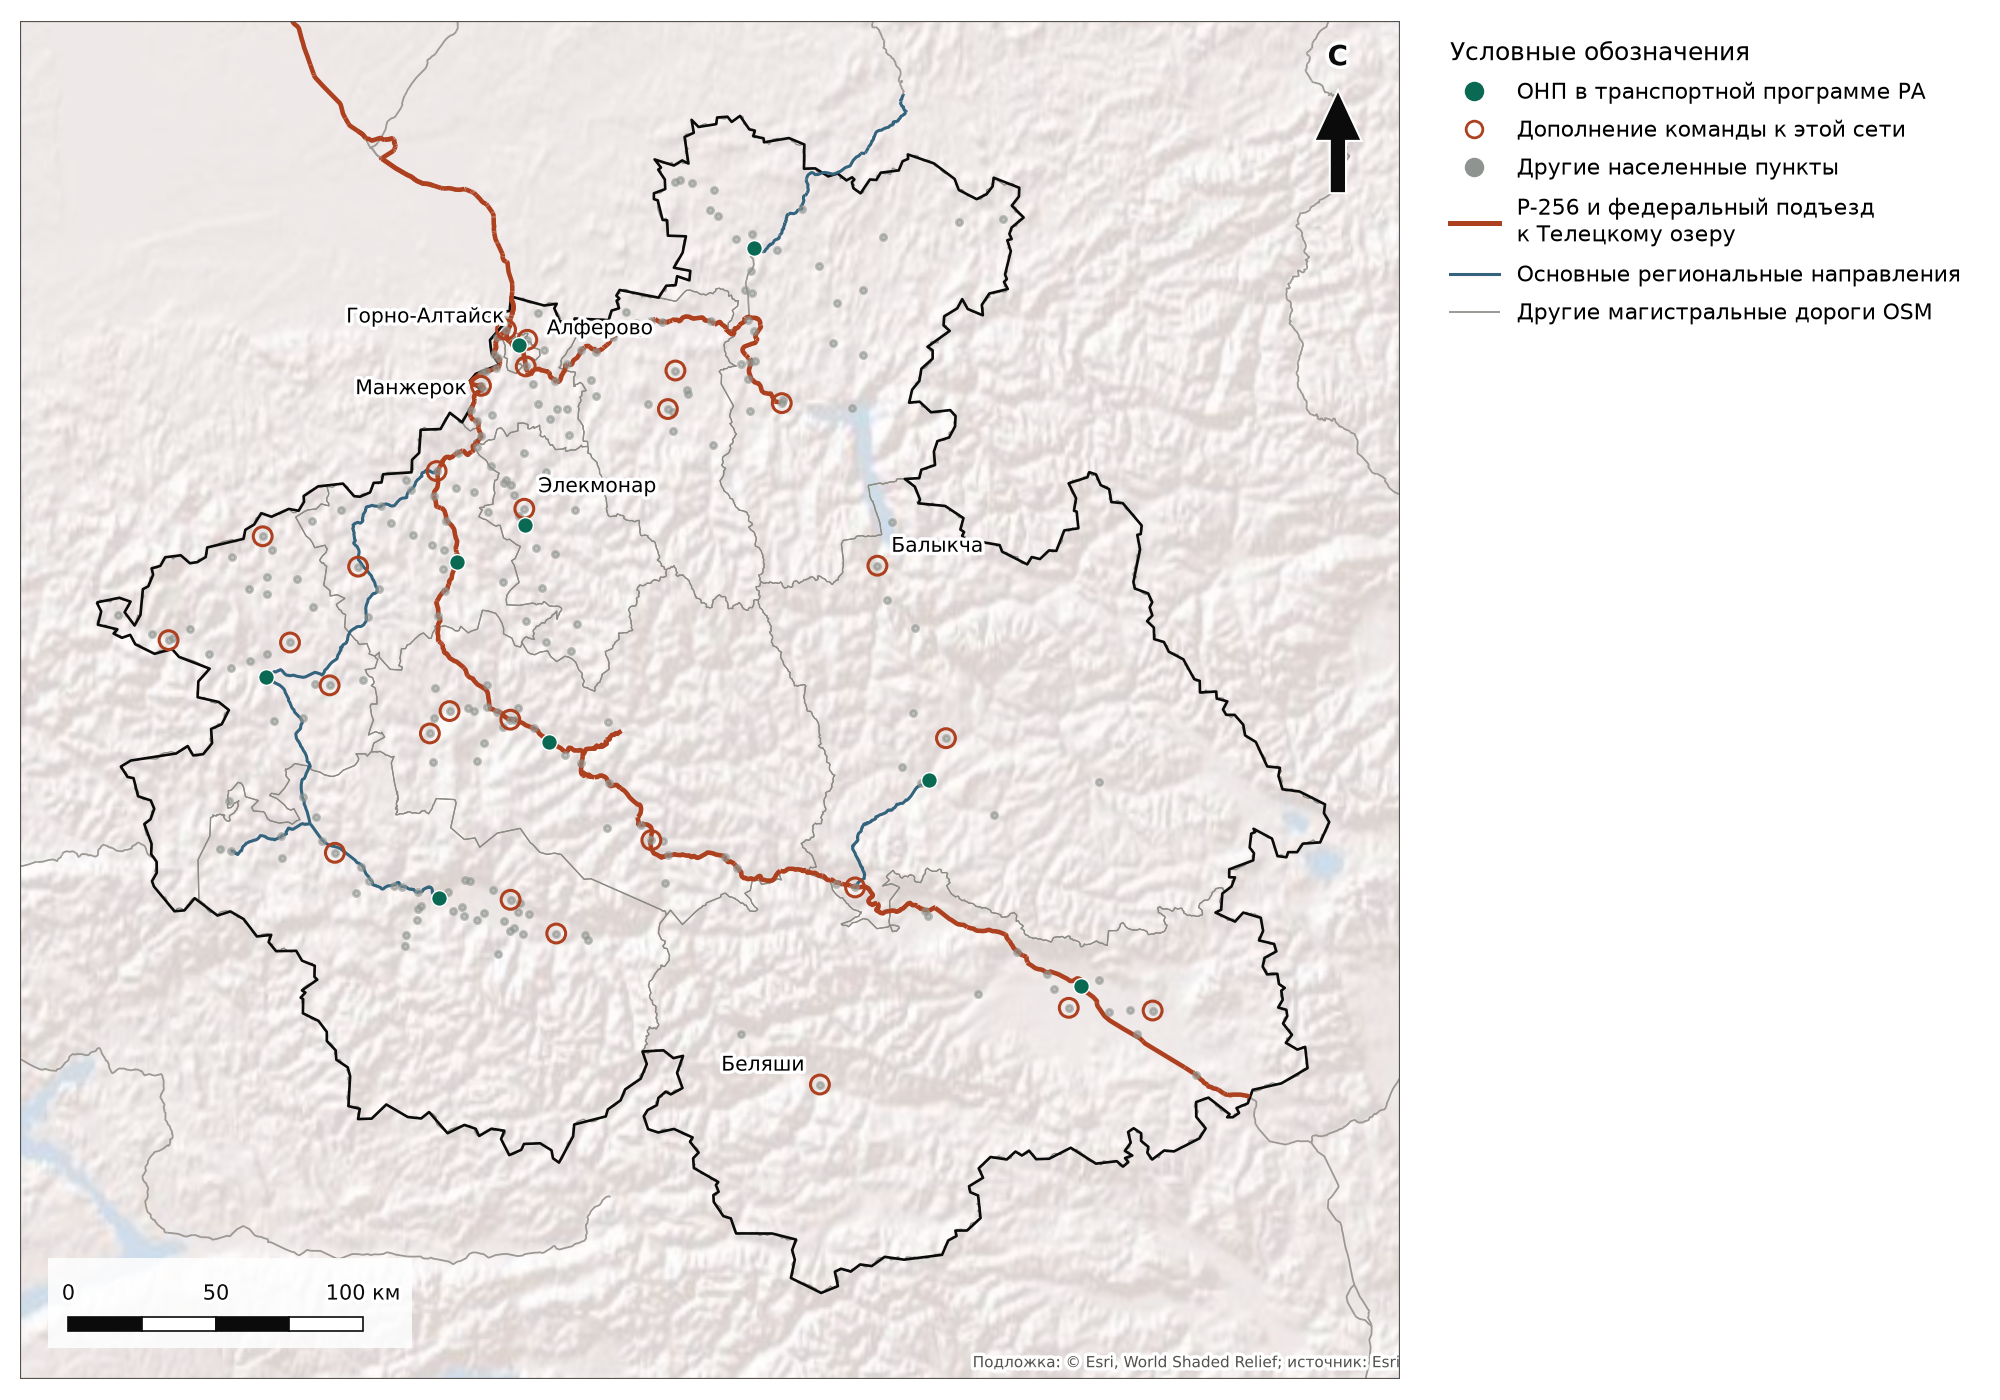
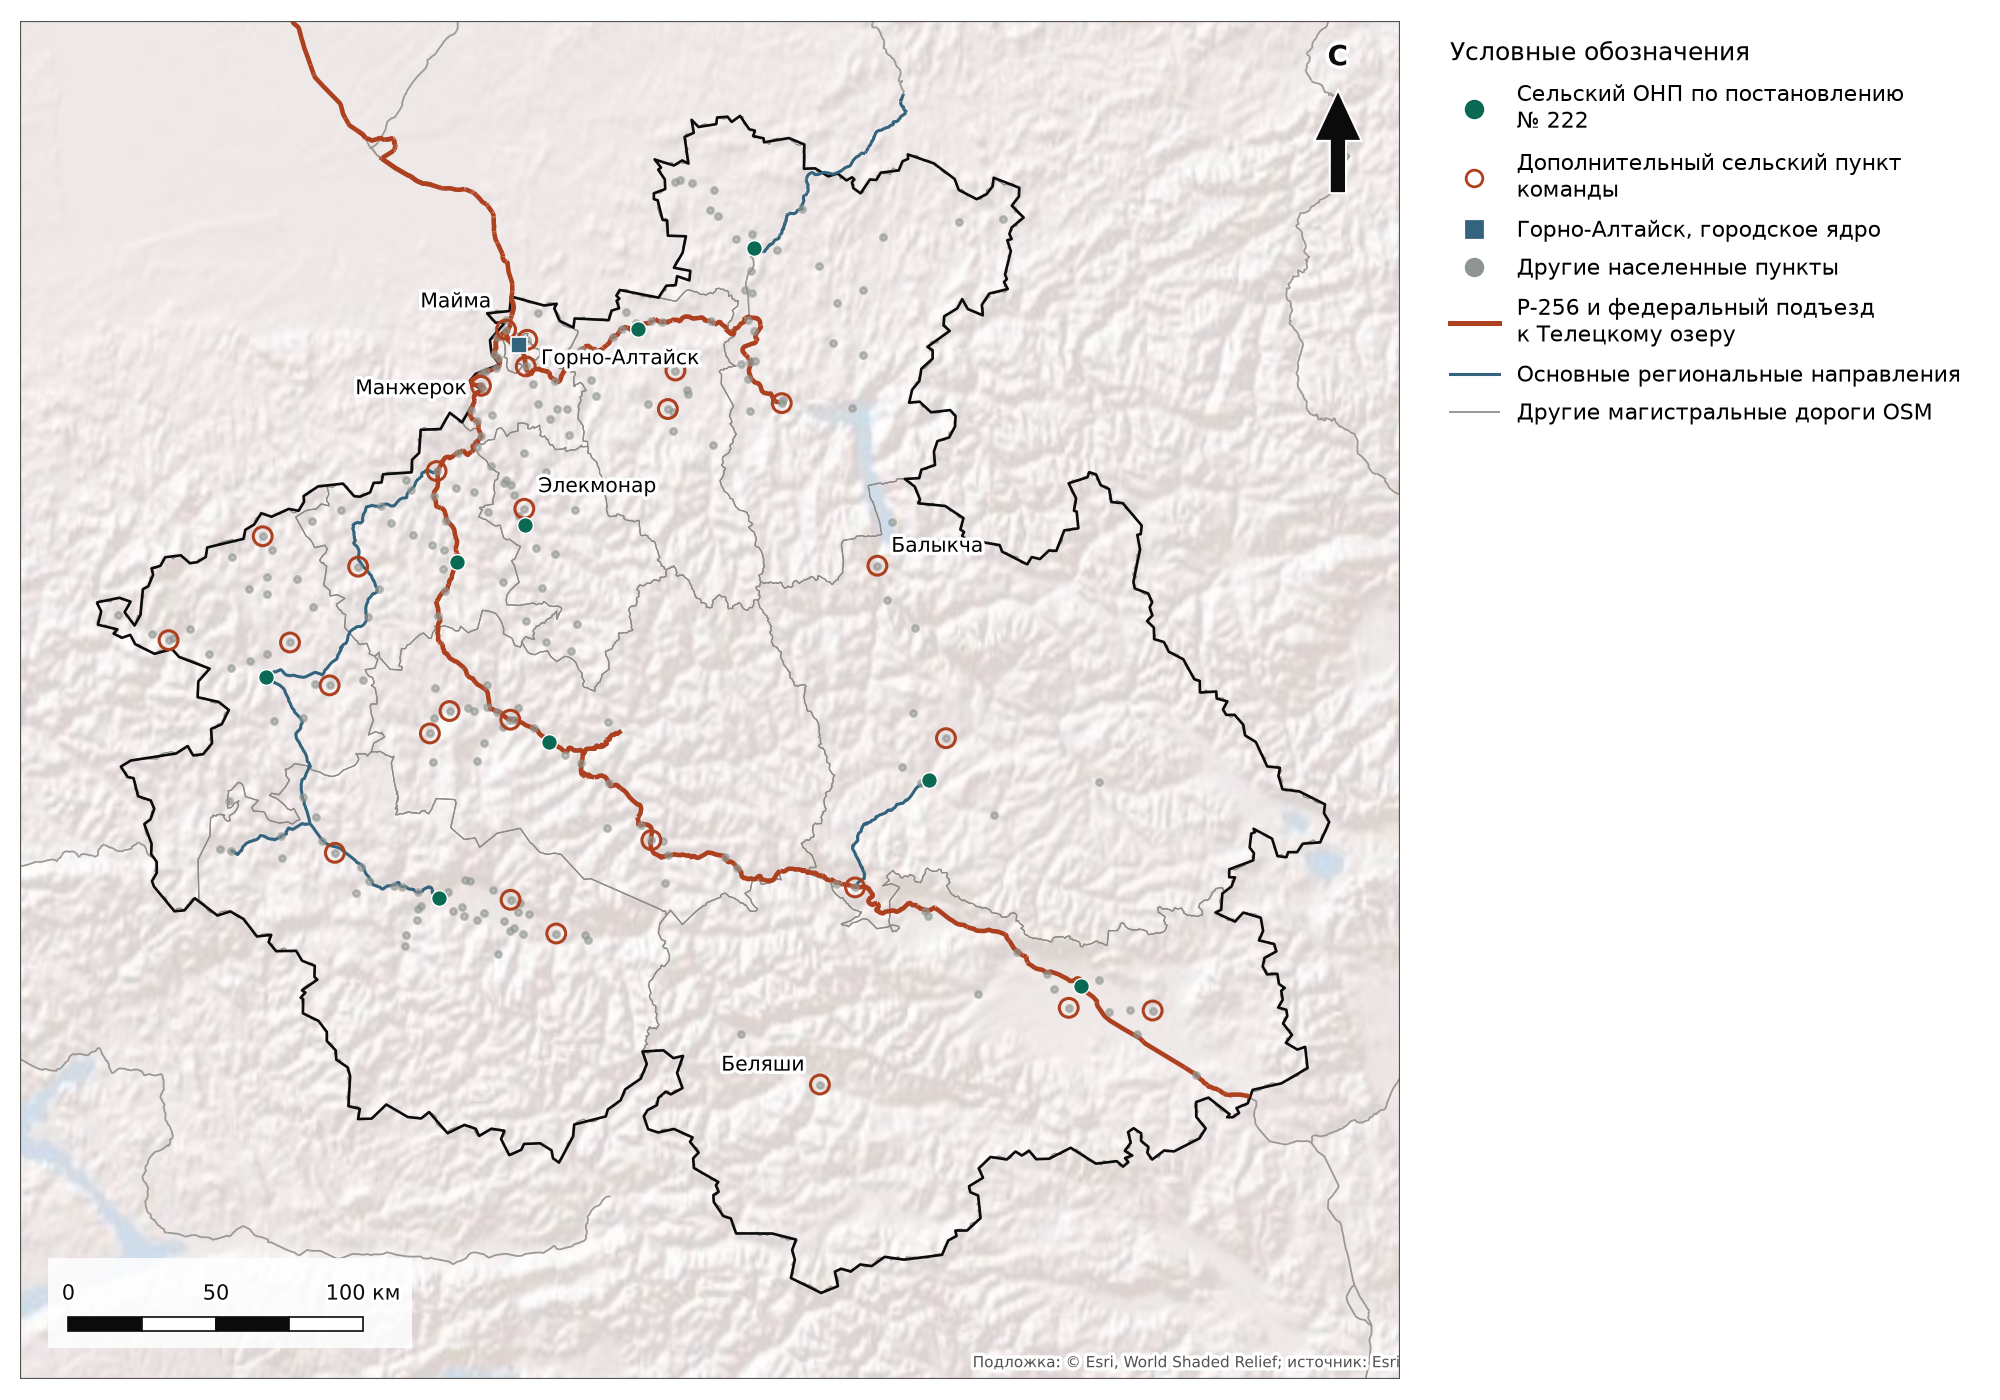
Сверить опорную сеть с приложением к постановлению № 222

Changed region(s): [[0.713, 0.0614, 0.961, 0.3071], [0.186, 0.215, 0.341, 0.2764]]

diff --git a/scripts/slides/make_course_feedback_maps.py b/scripts/slides/make_course_feedback_maps.py
@@ -121,19 +121,23 @@ def main():
 
     fig, ax = base()
     st.plot(ax=ax, color='#8e948f', markersize=5, alpha=.55, zorder=5)
-    benchmark = pd.read_csv(OUT / 'onp_transport_program.csv', dtype={'oktmo': str})
-    benchmark = benchmark.merge(st.assign(oktmo=st.oktmo.astype(str)), on='oktmo',
+    official = pd.read_csv(OUT / 'onp_decree_222.csv', dtype={'oktmo': str})
+    official = official.merge(st.assign(oktmo=st.oktmo.astype(str)), on='oktmo',
                                 validate='one_to_one', how='left', indicator=True)
-    assert (benchmark._merge == 'both').all(), 'Не все ОНП сопоставлены по ОКТМО'
-    benchmark = gpd.GeoDataFrame(benchmark, geometry='geometry', crs=CRS)
-    additions = onp[~onp.oktmo.astype(str).isin(benchmark.oktmo)]
-    benchmark.plot(ax=ax, color=ECONOMY, markersize=32, edgecolor='white', lw=.5, zorder=7)
-    onp_key = [symbol('o', ECONOMY, 'ОНП в транспортной программе РА'),
-               symbol('o', FEDERAL, 'Дополнение команды к этой сети', 'white')]
-    export_comparison(benchmark, onp, additions)
-    additions.plot(ax=ax, facecolor='none', edgecolor=FEDERAL, markersize=46, lw=1.1, zorder=6)
+    assert (official._merge == 'both').all(), 'Не все ОНП сопоставлены по ОКТМО'
+    official = gpd.GeoDataFrame(official, geometry='geometry', crs=CRS)
+    additions = onp[~onp.oktmo.astype(str).isin(official.oktmo)]
+    capital = additions[additions.oktmo.eq(84701000001)]
+    rural = additions.drop(capital.index)
+    official.plot(ax=ax, color=ECONOMY, markersize=32, edgecolor='white', lw=.5, zorder=7)
+    onp_key = [symbol('o', ECONOMY, 'Сельский ОНП по постановлению № 222'),
+               symbol('o', FEDERAL, 'Дополнительный сельский пункт команды', 'white'),
+               symbol('s', REGIONAL, 'Горно-Алтайск, городское ядро')]
+    export_comparison(official, onp, additions)
+    rural.plot(ax=ax, facecolor='none', edgecolor=FEDERAL, markersize=46, lw=1.1, zorder=6)
+    capital.plot(ax=ax, color=REGIONAL, marker='s', markersize=32, edgecolor='white', lw=.6, zorder=8)
     for name, offset in {
-        'Горно-Алтайск': (-6, 8), 'Алферово': (7, 2), 'Манжерок': (-6, -3),
+        'Горно-Алтайск': (8, -7), 'Майма': (-6, 8), 'Манжерок': (-6, -3),
         'Элекмонар': (5, 6), 'Беляши': (-6, 5), 'Балыкча': (5, 5),
     }.items():
         p = onp.loc[onp['name'].str.endswith(name), 'geometry'].iloc[0]
@@ -177,12 +181,15 @@ def main():
 def export_comparison(official, onp, additions):
     both = official.oktmo.isin(onp.oktmo.astype(str))
     result = pd.concat([
-        official[['oktmo', 'settlement', 'mo']].assign(
-            status=both.map({True: 'оба перечня', False: 'только транспортная программа РА'})
+        official[['oktmo', 'settlement', 'mo', 'pdf_page']].assign(
+            status=both.map({True: 'оба перечня', False: 'только постановление № 222'})
         ),
         additions.rename(columns={'name': 'settlement'})[['oktmo', 'settlement', 'mo', 'основание']]
-        .assign(status='дополнение команды'),
+        .assign(status=additions.oktmo.eq(84701000001).map(
+            {True: 'городское ядро команды', False: 'дополнительный сельский пункт команды'}
+        )),
     ], ignore_index=True)
+    result['pdf_page'] = result.pdf_page.astype('Int64')
     result.to_csv(OUT / 'onp_comparison.csv', index=False)
 
 

diff --git a/docs/course_feedback_2026-11-07.md b/docs/course_feedback_2026-11-07.md
@@ -2,21 +2,21 @@
 
 ## Расселение и ОНП
 
-Для сельских агломераций правовое основание — [постановление Правительства РА от 26.05.2026 № 222](https://publication.pravo.gov.ru/document/0400202605270001), опубликованное 27.05.2026, [приложение № 2](https://base.garant.ru/414294116/f7ee959fd36b5699076b35abf4f52c5c/). Полная таблица приложения с официального портала пока недоступна для сверки. В доступных строках, например, Кош-Агач и Улаган имеют статус ОНП, а Новый Бельтир, Каракол и Акташ указаны как прилегающие населенные пункты.
+В приложении № 2 к [постановлению Правительства РА от 26.05.2026 № 222](https://publication.pravo.gov.ru/document/0400202605270001) утверждены **9 сельских ОНП**: Кош-Агач, Онгудай, Турочак, Улаган, Усть-Кан, Усть-Кокса, Чемал, Чоя и Шебалино. Проверены все страницы приложения (с. 11–23 PDF) и коды ОКТМО из графы ОНП.
 
-Для картографического сравнения использован проверяемый региональный ориентир — **10 ОНП**, перечисленных в программе развития общественного транспорта, ред. от 10.09.2026, табл. 1–2. Горно-Алтайск входит в транспортный перечень, Майма в нем указана в категории иных населенных пунктов. Все десять вошли и в сеть команды. **27 дополнений** относятся к сравнению с транспортной программой. Полное сравнение с сельским перечнем № 222 требует его приложения. [Приказ Минтранса РА № П-23-01/154](https://base.garant.ru/414904376/)
+Все девять входят в сеть команды. За пределами сельского списка № 222 у команды **27 сельских пунктов и Горно-Алтайск**. Город выделен отдельно как ядро агломерации. Для 27 сельских пунктов предлагается усилить функции в проектной сети обслуживания; статусы по постановлению остаются самостоятельным слоем. Новый Бельтир, Каракол Онгудайского района и Акташ, например, числятся в приложении среди прилегающих НП.
 
 В сети команды 37 пунктов, 74,9% населения по оценке на 2025 год. Предложение — обеспечить сеть локальных услуг в пунктах, где уже есть административная или медицинская функция либо не менее 1 500 жителей. Примеры:
 
-| Дополнение к транспортному перечню | Основание и роль |
+| Дополнительный пункт сети команды | Основание и роль |
 |---|---|
 | Майма | Райцентр и часть столичного ядра. Узел ежедневных связей агломерации |
 | Алферово, Элекмонар | 1 738 и 1 953 жителя соответственно. Для Элекмонара наличие медточки требует отдельного подтверждения |
 | Беляши, Балыкча | Удаленные села с медицинской функцией по материалам СТП. Опора для обслуживания на периферии |
-| Новый Бельтир, Каракол Онгудайского района | Медицинская функция по СТП. В доступной части приложения № 2 они относятся к прилегающим НП |
+| Новый Бельтир, Каракол Онгудайского района | Медицинская функция по СТП. В приложении № 2 они относятся к прилегающим НП |
 | Акташ | 2 185 жителей по оценке команды, развилка на Улаган. В приложении № 2 указан как прилегающий НП |
 
-Полное построчное сравнение с транспортной программой и основания предложений — [CSV](../data/slides/onp_comparison.csv). Привязка по ОКТМО к переписному слою. Решение команды от 03.11.2026 и действующая диагностика сведены в [рабочих решениях](decisions_2026-11-03.md).
+Построчное сравнение с приложением № 2 и основания предложений — [CSV](../data/slides/onp_comparison.csv). Привязка по ОКТМО к переписному слою. Решение команды от 03.11.2026 и действующая диагностика сведены в [рабочих решениях](decisions_2026-11-03.md).
 
 ## Агломерация
 
